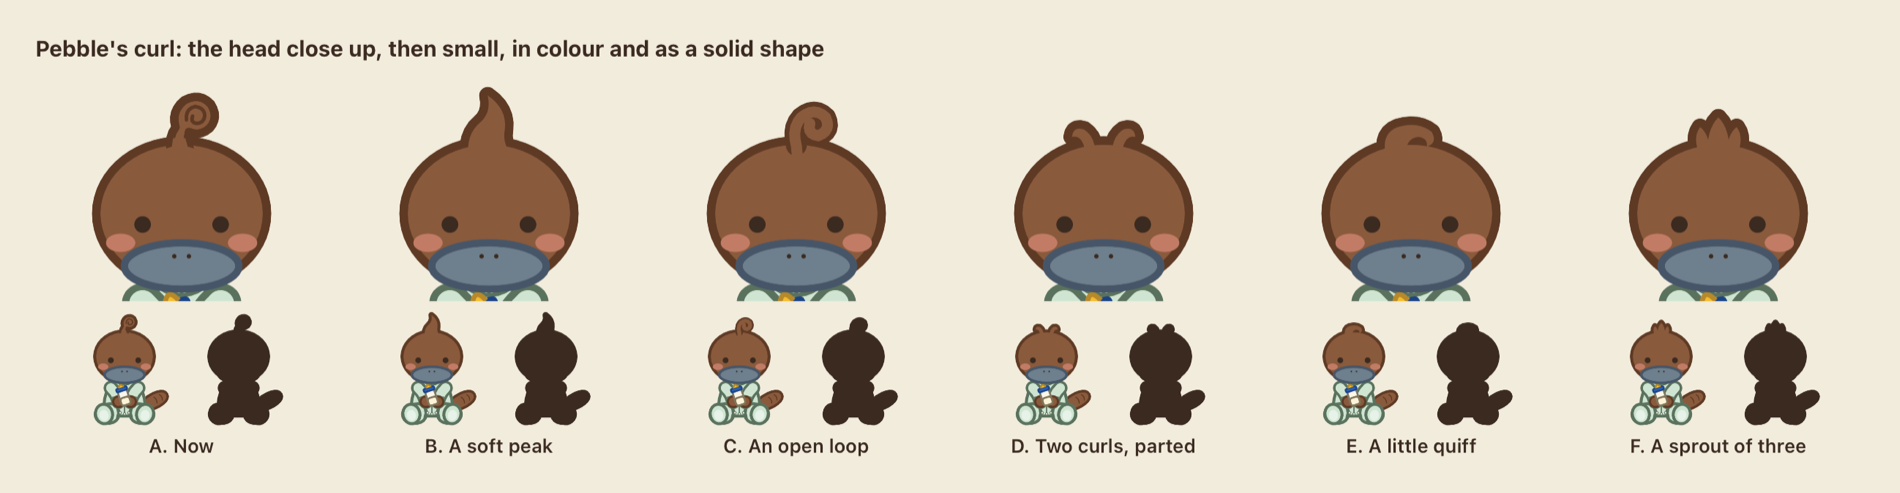
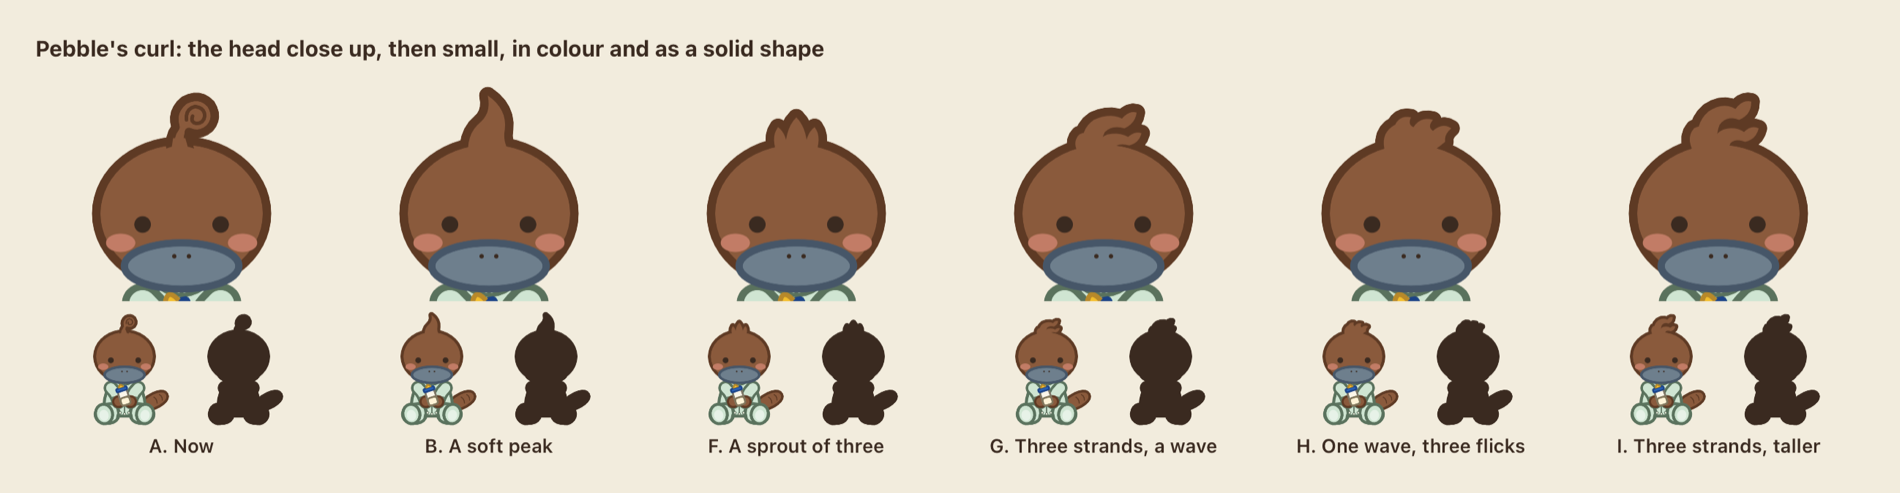
Pebble: three-strand wave variants on the curl sheet

diff --git a/app/Puggle/Features/Family/RefinementSheets.swift b/app/Puggle/Features/Family/RefinementSheets.swift
@@ -103,10 +103,18 @@ enum RefinementSheets {
         let options: [(String, Rig)] = [
             ("A. Now", pebble),
             ("B. A soft peak", withHair(bare, ["M103 58 Q102 42 113 33 Q122 25 119 11 Q135 22 133 39 Q131 49 137 58 Z"])),
-            ("C. An open loop", looped("M120 52 Q116 38 124 29 Q135 20 144 29 Q149 40 138 44 Q129 43 131 34", "M121 62 L120 52 ")),
-            ("D. Two curls, parted", withHair(bare, ["M113 58 Q113 45 104 39 Q95 36 94 45 Q103 43 105 58 Z", "M127 58 Q127 45 136 39 Q145 36 146 45 Q137 43 135 58 Z"])),
-            ("E. A little quiff", withHair(bare, ["M99 58 Q96 42 109 37 Q126 32 137 41 Q142 50 133 53 Q134 46 126 45 Q116 46 116 58 Z"])),
             ("F. A sprout of three", withHair(bare, ["M104 58 Q99 45 105 37 Q112 42 113 56 Z", "M111 56 Q111 38 120 29 Q129 38 129 56 Z", "M127 56 Q128 42 135 37 Q141 45 136 58 Z"])),
+            // Three strands swept one way as a wave, each ending in a flick.
+            ("G. Three strands, a wave", withHair(bare, [
+                "M104 58 Q99 40 112 31 Q125 25 135 30 Q141 23 147 25 Q146 34 137 38 Q127 35 121 41 Q117 48 119 58 Z",
+                "M115 58 Q113 47 123 43 Q133 41 140 45 Q146 40 151 42 Q149 50 141 52 Q133 50 129 53 Q127 55 128 58 Z",
+                "M99 58 Q94 49 100 43 Q106 40 111 43 Q105 47 107 58 Z"])),
+            ("H. One wave, three flicks", withHair(bare, [
+                "M99 58 Q94 42 107 35 Q111 27 120 29 Q117 35 122 37 Q128 28 138 31 Q133 37 138 40 Q146 33 153 38 Q147 43 148 49 Q141 55 135 58 Z"])),
+            ("I. Three strands, taller", withHair(bare, [
+                "M106 58 Q98 36 112 24 Q124 16 134 22 Q140 14 147 16 Q147 27 137 31 Q127 27 121 35 Q117 45 120 58 Z",
+                "M116 58 Q113 44 124 39 Q134 36 141 41 Q147 35 153 38 Q151 47 142 49 Q134 46 130 50 Q128 54 129 58 Z",
+                "M100 58 Q93 46 100 38 Q107 34 112 39 Q105 43 108 58 Z"])),
         ]
         func column(_ name: String, _ rig: Rig) -> some View {
             VStack(spacing: 6) {
